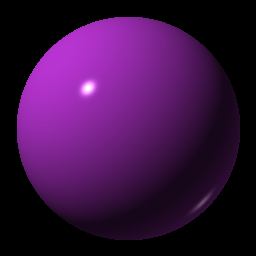
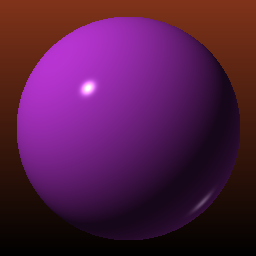
Add background gradient in lit sphere example

Changed region(s): [[0.0, 0.0, 1.0, 0.8125]]

diff --git a/example/04_lit_sphere.rb b/example/04_lit_sphere.rb
@@ -23,6 +23,8 @@ def main
   light_2 = PointLight.new(point(10, -10, 10),
                            color(0.3, 0.3, 0.3))
 
+  bg_color = color(0.5, 0.2, 0.1)
+
   wall_z = 10
   wall_size = 7.0
   half_size = wall_size/2
@@ -50,6 +52,8 @@ def main
         color_2 = hit.object.lighting(light_2, p, -ray.direction)
 
         canvas.write_pixel(screen_x, screen_y, color_1 + color_2)
+      else
+        canvas.write_pixel(screen_x, screen_y, bg_color*((h-screen_y.to_f)/h))
       end
     end
   end
